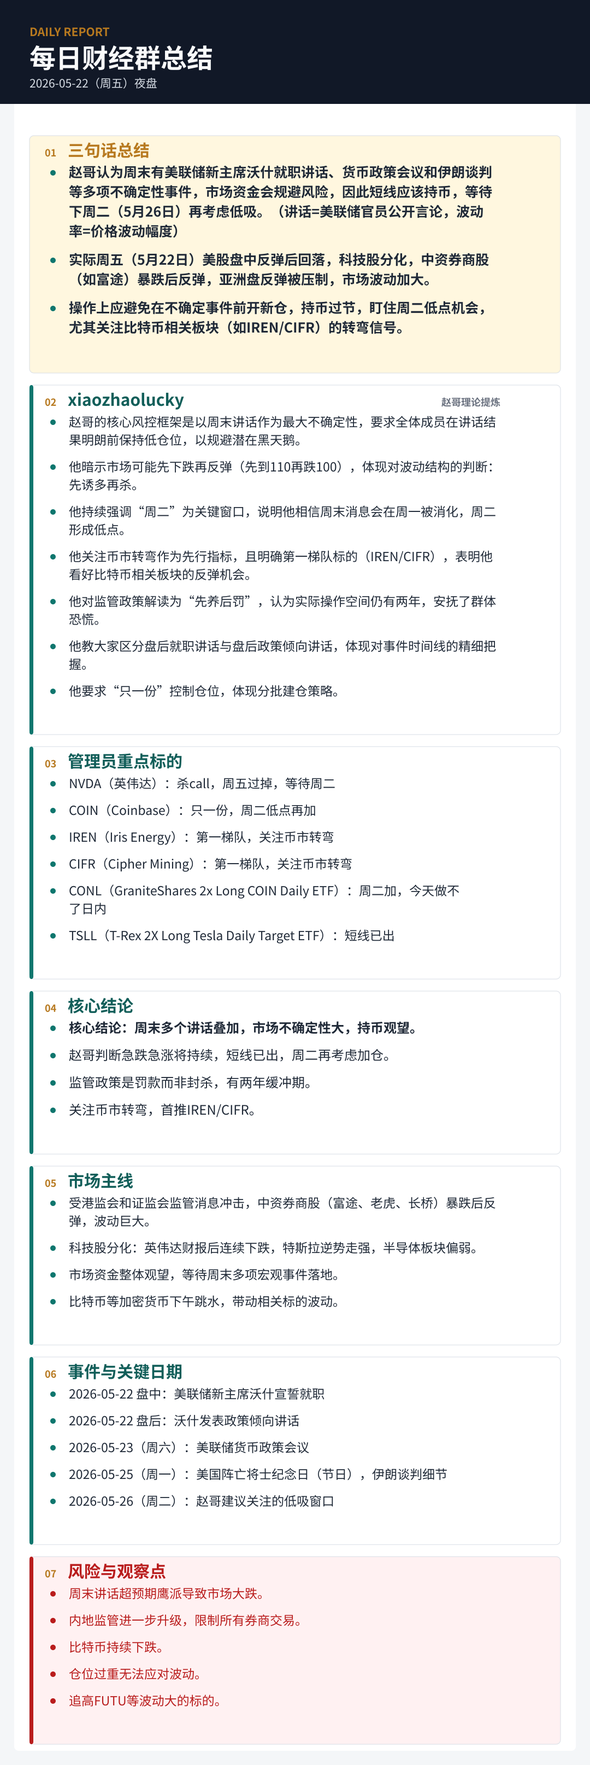
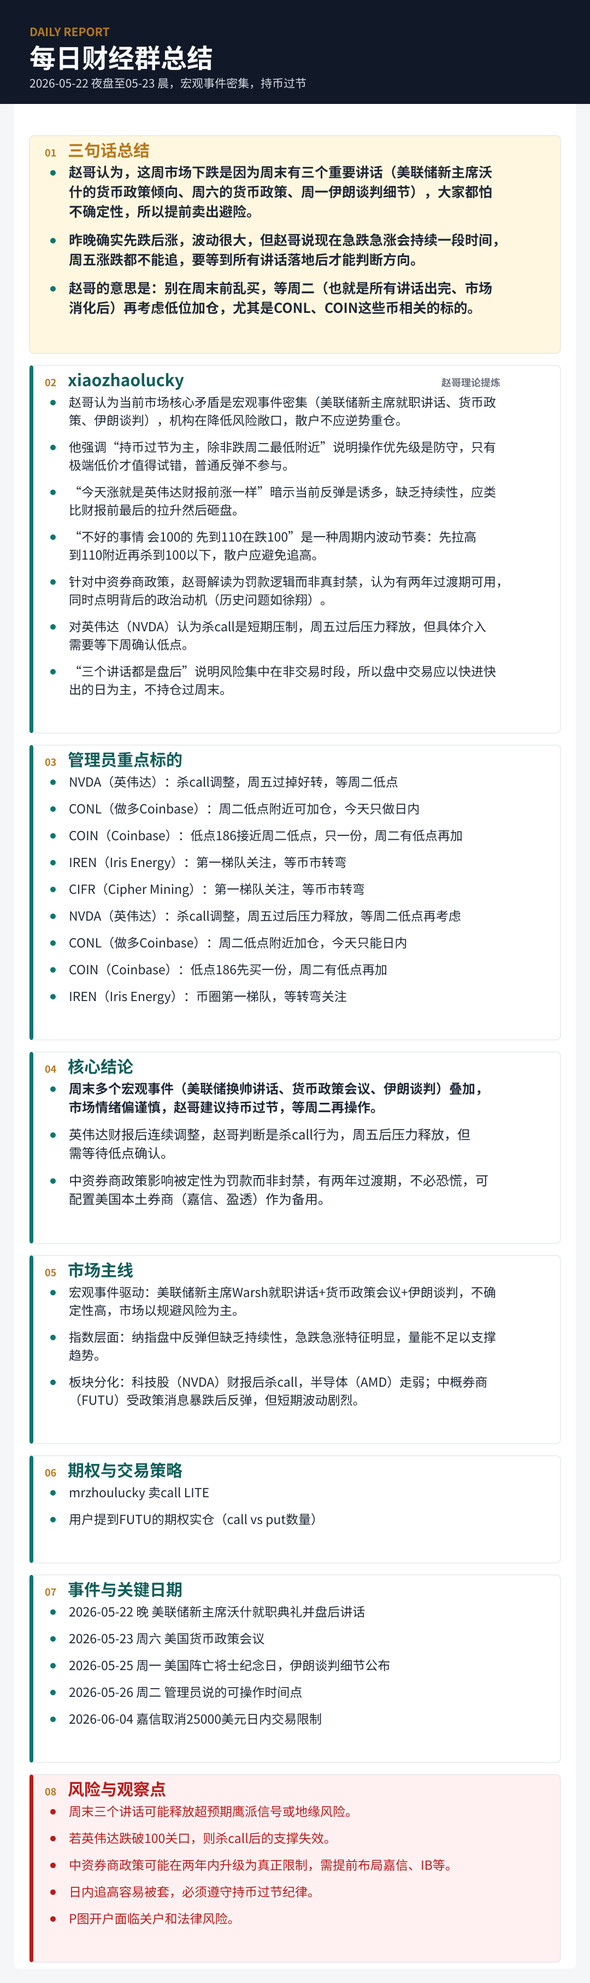
Auto daily publish: 2026-05-23 12:24:41 CST

diff --git a/docs/index.md b/docs/index.md
@@ -1,110 +1,113 @@
 # 财经聊天总结 - 每日定时总结（过去24小时）
 
-> 北京时间：2026-05-23 11:30:30 CST
+> 北京时间：2026-05-23 12:24:41 CST
 
-> 美西时间：2026-05-22 20:30:30 PST
+> 美西时间：2026-05-22 21:24:41 PST
 
-> 美东时间：2026-05-22 23:30:30 EST
+> 美东时间：2026-05-23 00:24:41 EST
 
 > 模型：deepseek-v4-flash
 
 ## 三句话总结
-- 赵哥认为周末有美联储新主席沃什就职讲话、货币政策会议和伊朗谈判等多项不确定性事件，市场资金会规避风险，因此短线应该持币，等待下周二（5月26日）再考虑低吸。（讲话=美联储官员公开言论，波动率=价格波动幅度）
-- 实际周五（5月22日）美股盘中反弹后回落，科技股分化，中资券商股（如富途）暴跌后反弹，亚洲盘反弹被压制，市场波动加大。
-- 操作上应避免在不确定事件前开新仓，持币过节，盯住周二低点机会，尤其关注比特币相关板块（如IREN/CIFR）的转弯信号。
+- 赵哥认为，这周市场下跌是因为周末有三个重要讲话（美联储新主席沃什的货币政策倾向、周六的货币政策、周一伊朗谈判细节），大家都怕不确定性，所以提前卖出避险。
+- 昨晚确实先跌后涨，波动很大，但赵哥说现在急跌急涨会持续一段时间，周五涨跌都不能追，要等到所有讲话落地后才能判断方向。
+- 赵哥的意思是：别在周末前乱买，等周二（也就是所有讲话出完、市场消化后）再考虑低位加仓，尤其是CONL、COIN这些币相关的标的。
 
 ## 核心结论
-- 核心结论：周末多个讲话叠加，市场不确定性大，持币观望。
-- 赵哥判断急跌急涨将持续，短线已出，周二再考虑加仓。
-- 监管政策是罚款而非封杀，有两年缓冲期。
-- 关注币市转弯，首推IREN/CIFR。
+- 周末多个宏观事件（美联储换帅讲话、货币政策会议、伊朗谈判）叠加，市场情绪偏谨慎，赵哥建议持币过节，等周二再操作。
+- 英伟达财报后连续调整，赵哥判断是杀call行为，周五后压力释放，但需等待低点确认。
+- 中资券商政策影响被定性为罚款而非封禁，有两年过渡期，不必恐慌，可配置美国本土券商（嘉信、盈透）作为备用。
 
 ## 市场状态判断
-- 当前市场处于‘多重事件叠加的周末前规避模式’，资金偏向减仓避险，波动率上升，日内的反弹容易被讲话不确定性打压。
-- 短期风险规避，中长线等待情绪消化，资金环境偏紧。
+- 市场处于事件密集窗口期（美联储换帅、货币政策、地缘谈判），波动率显著上升，多空博弈激烈。
+- 资金行为以避险为主，机构降低风险敞口，散户跟风难度大，短线交易窗口窄。
+- 流动性集中在宏观主题（政策、利率、地缘），而非个股基本面驱动。
 
 ### 核心理论
-- 在重大不确定性事件公布前不赌方向，宁可错过也不做错。
-- 利用周末讲话导致的情绪低点布局。
-- 急跌急涨是人为调控的常态，要适应节奏。
-- 分批建仓，只一份试错。
+- 赵哥框架的核心是“宏观事件主导节奏，散户应跟随时间周期而非价格运动”。
+- 他反复强调“三个讲话盘后”、“周末规避”，说明决策依据是时间点（讲话前后）而非单纯点位。
+- 操作上分两层：一是持币过节（防守），二是只有跌至周二最低附近才试错（机会）。
+- 对于标的（如CONL、COIN），他认为与币市场联动，需等币市转弯后第一梯队如IREN、CIFR先关注。
 
 ### 证据链
-- NVDA财报后连跌三天，赵哥指出‘杀call’现象。
-- 周五盘中反弹后回落，符合‘今天亚洲反弹肯定要杀下’。
-- Coin低点186接近周二低点，赵哥同意只一份。
-- 周一周二下跌源于周末慢跑式减持讲话。
-- 富途盘中从75涨到94，体现利空出尽反弹。
+- 英伟达财报后连跌三天，赵哥解释为杀call，周五过掉就好了，验证了期权到期日的机械性抛压。
+- 中资券商政策：赵哥指出长桥是阿里、富途是腾讯、老虎是小米，国内资本控股，罚款是目的，历史上徐翔案例是模板。
+- 市场波动：周一周二跌是因周末慢跑式减持讲话，周五虽反弹但“涨就是英伟达财报前涨一样”暗示诱多。
+- 币市场：COIN低点186接近周二低点，赵哥说只一份如果周二有低点再加，表明当前并非重仓时机。
+- 用户对富途的操作：有人75买88出，有人等100未果，说明政策事件带来的波动有获利空间但难度大。
 
 ### 交易框架拆解
-- **入场条件**：周末讲话后，周二如果跌至周低点附近可考虑试仓。；币市出现转弯信号。
-- **持仓逻辑**：中线持有，允许做T降低成本。
-- **退出条件**：讲话出现超预期鹰派或地缘风险，则止盈/止损。
-- **仓位纪律**：轻仓低吸，分批加仓，总仓位控制在3成以内。
-- **风控规则**：禁止在周末前重仓，禁止追高，禁止不设止损。
-- **观察信号**：周六货币政策会议结果。；周一伊朗谈判细节。；比特币是否企稳反弹。；周一美港股是否开盘（节日）。；嘉信、IB等开户进度。
-- **失效条件**：如果周末讲话结果全部利好，出现踏空。；走势与赵哥预期相反持续下跌，则框架失效。
+- **入场条件**：周二（所有讲话落地后）才是允许关注的时间点。；价格须跌至周二最低附近才考虑试错，否则观望。；币市场需出现转弯信号，第一梯队（IREN、CIFR）先关注。；日内操作仅限于盘中急跌后的反弹，且不能持仓过周末。
+- **持仓逻辑**：若已持有，短线仓位应在周五前出清。；中线仓位需等待周二低点确认后再考虑持有。；持币过节是核心，不因盘中反弹改变策略。
+- **退出条件**：若价格回升至周二最低上方，应停止买入并减仓。；出现超预期利空（如沃什鹰派讲话超预期、伊朗谈判破裂）需无条件止损。；短线止盈参考110附近（如英伟达）或10%涨幅（如富途）。
+- **仓位纪律**：当前仓位不超过3成，且以短线为主。；周二的低吸仓位控制在1-2成，若继续跌破再考虑加仓。；不追高，不重仓单一个股。
+- **风控规则**：禁止在讲话落地前开新仓。；禁止持有过周末（除非已严格止损）。；中资券商账户资金分散到美国本土券商。；不要用P图等欺诈手段开户，避免被关户。
+- **观察信号**：周六货币政策会议的具体表述（鹰鸽程度）。；周一伊朗谈判结果对油价和避险情绪的影响。；沃什盘后讲话中政策倾向（加息节奏、缩表态度）。；英伟达股价能否在105-108区间企稳，还是跌破100。；币市场（BTC）是否出现放量止跌信号。
+- **失效条件**：如果沃什讲话意外鸽派，市场可能提前反弹，则周二低点不复存在。；如果伊朗谈判达成超预期协议，油价暴跌引发风险资产全面反弹。；如果英伟达快速收复财报跌幅（>120），则杀call判断失效。；如果政策直接关闭中资券商出金通道（而非两年过渡），则恐慌加剧。
 
 ## xiaozhaolucky
 ### 深度解读
-- 赵哥的核心风控框架是以周末讲话作为最大不确定性，要求全体成员在讲话结果明朗前保持低仓位，以规避潜在黑天鹅。
-- 他暗示市场可能先下跌再反弹（先到110再跌100），体现对波动结构的判断：先诱多再杀。
-- 他持续强调“周二”为关键窗口，说明他相信周末消息会在周一被消化，周二形成低点。
-- 他关注币市转弯作为先行指标，且明确第一梯队标的（IREN/CIFR），表明他看好比特币相关板块的反弹机会。
-- 他对监管政策解读为“先养后罚”，认为实际操作空间仍有两年，安抚了群体恐慌。
-- 他教大家区分盘后就职讲话与盘后政策倾向讲话，体现对事件时间线的精细把握。
-- 他要求“只一份”控制仓位，体现分批建仓策略。
+- 赵哥认为当前市场核心矛盾是宏观事件密集（美联储新主席就职讲话、货币政策、伊朗谈判），机构在降低风险敞口，散户不应逆势重仓。
+- 他强调“持币过节为主，除非跌周二最低附近”说明操作优先级是防守，只有极端低价才值得试错，普通反弹不参与。
+- “今天涨就是英伟达财报前涨一样”暗示当前反弹是诱多，缺乏持续性，应类比财报前最后的拉升然后砸盘。
+- “不好的事情 会100的 先到110在跌100”是一种周期内波动节奏：先拉高到110附近再杀到100以下，散户应避免追高。
+- 针对中资券商政策，赵哥解读为罚款逻辑而非真封禁，认为有两年过渡期可用，同时点明背后的政治动机（历史问题如徐翔）。
+- 对英伟达（NVDA）认为杀call是短期压制，周五过后压力释放，但具体介入需要等下周确认低点。
+- “三个讲话都是盘后”说明风险集中在非交易时段，所以盘中交易应以快进快出的日为主，不持仓过周末。
 
 ### 管理员重点标的
-- **NVDA（英伟达）**: 杀call，周五过掉，等待周二
-- **COIN（Coinbase）**: 只一份，周二低点再加
-- **IREN（Iris Energy）**: 第一梯队，关注币市转弯
-- **CIFR（Cipher Mining）**: 第一梯队，关注币市转弯
-- **CONL（GraniteShares 2x Long COIN Daily ETF）**: 周二加，今天做不了日内
-- **TSLL（T-Rex 2X Long Tesla Daily Target ETF）**: 短线已出
+| 标的 | 逻辑 | 触发条件 | 动作 | 风险 |
+| --- | --- | --- | --- | --- |
+| NVDA（英伟达） | 杀call调整，周五过掉好转，等周二低点 | 待确认 | 观察 | 未明确 |
+| CONL（做多Coinbase） | 周二低点附近可加仓，今天只做日内 | 待确认 | 观察 | 未明确 |
+| COIN（Coinbase） | 低点186接近周二低点，只一份，周二有低点再加 | 待确认 | 观察 | 未明确 |
+| IREN（Iris Energy） | 第一梯队关注，等币市转弯 | 待确认 | 观察 | 未明确 |
+| CIFR（Cipher Mining） | 第一梯队关注，等币市转弯 | 待确认 | 观察 | 未明确 |
+| NVDA（英伟达） | 财报后杀call是常见期权到期现象，周五即结束 | 周五收盘后或周二低点 | 暂时观望，等待周二低点 | 若突破前高则杀call无效 |
+| CONL（做多Coinbase） | 与币市场联动，等币市转弯 | 周二低点或币市转弯信号 | 下周二加仓 | 讲话不确定性导致再次下跌 |
+| COIN（Coinbase） | 接近周二低点但未完全到位 | 周二如果继续下跌 | 只一份试错 | 跌破前低则先止损 |
+| IREN（Iris Energy） | 币市企稳后优先关注 | 币市转弯 | 观察准备 | 币市持续下跌 |
+| CIFR（Cipher Mining） | 同上 | 同上 | 观察准备 | 同上 |
 
 ## 其他用户
 ### 用户观点提炼
-- 普通用户普遍恐慌大陆监管，大量讨论如何开嘉信、IB、盈立等替代券商。
-- 部分用户利用FUTU利空事件做短线，获利15-20%后止盈。
-- 用户对CONL、TSLL等标的跟随赵哥操作，但许多人卖飞或套牢。
-- 用户对晚间美联储新主席就职讲话看法分歧，有人认为偏鹰派。
-- 情绪上，有用户担心未来两年不能交易，但也有用户认为只是罚款，问题不大。
+- 多数用户对中资券商政策感到恐慌，讨论开户备选（嘉信、盈立、IB），但普遍认为政策影响有限，长期仍需本土券商。
+- mrzhoulucky 表示富途、长桥、老虎分别是腾讯、阿里、小米控股，认为这是缺钱罚款的信号，并分享自己卖call、做空LITE的操作。
+- 部分用户参与短期事件（富途暴跌后反弹），有人赚15-20%止盈，也有用户犹豫不敢买。
+- 对英伟达和特斯拉有分歧：有人认为财报后持续调整，有人高抛低吸做T。
+- 关于美联储新主席Warsh，用户讨论偏鹰派，认为可能加息，但无一致结论。
 
 ### 普通用户提到的标的
-- **FUTU（富途控股）**: 政策利空暴跌后反弹，用户炒短线
-- **TSLA（特斯拉）**: 走强，用户有持仓
-- **DELL（戴尔）**: 涨15%，用户持有
-- **AMD（超威半导体）**: 盘中波动大
-- **FUTU（富途控股）**: 用户75-94炒短线，获利20%止盈
-- **TSLA（特斯拉）**: 走强，用户有持仓，部分卖飞
-- **DELL（戴尔）**: 涨15%，用户持有不动
-- **CONL（GraniteShares 2x Long COIN Daily ETF）**: 用户7.6买入，套牢或卖出
-- **TSLL（T-Rex 2X Long Tesla Daily Target ETF）**: 用户15.19卖出，后卖飞
-- **LITE（Lumentum）**: 用户讨论做空LITE
-- **HOOD（Robinhood）**: 用户挂单73.18
-- **AMD（超威半导体）**: 用户感叹波动大
+- **FUTU（富途控股）**: 政策事件暴跌后反弹，用户有短炒
+- **TSLA（特斯拉）**: 高开低走，用户出清或做T
+- **DELL（戴尔）**: 用户持仓不动，涨势不错
+- **LITE（Lumentum）**: 用户做空（mrzhoulucky卖call）
+- **FUTU（富途控股）**: 用户讨论：75-88-94区间短炒，有人赚15%止盈
+- **TSLA（特斯拉）**: 高开低走，用户清仓或持有底仓，卖飞后后悔
+- **DELL（戴尔）**: 用户持有，涨势好，有人赚15%
+- **SOXS（做空半导体三倍ETF）**: 用户提及新低
+- **LITE（Lumentum）**: 用户mrzhoulucky卖call做空
 
 ## 市场主线
-- 受港监会和证监会监管消息冲击，中资券商股（富途、老虎、长桥）暴跌后反弹，波动巨大。
-- 科技股分化：英伟达财报后连续下跌，特斯拉逆势走强，半导体板块偏弱。
-- 市场资金整体观望，等待周末多项宏观事件落地。
-- 比特币等加密货币下午跳水，带动相关标的波动。
+- 宏观事件驱动：美联储新主席Warsh就职讲话+货币政策会议+伊朗谈判，不确定性高，市场以规避风险为主。
+- 指数层面：纳指盘中反弹但缺乏持续性，急跌急涨特征明显，量能不足以支撑趋势。
+- 板块分化：科技股（NVDA）财报后杀call，半导体（AMD）走弱；中概券商（FUTU）受政策消息暴跌后反弹，但短期波动剧烈。
 
 ## 期权与交易策略
-- 暂无明确记录。
+- mrzhoulucky 卖call LITE
+- 用户提到FUTU的期权实仓（call vs put数量）
 
 ## 事件与关键日期
-- 2026-05-22 盘中：美联储新主席沃什宣誓就职
-- 2026-05-22 盘后：沃什发表政策倾向讲话
-- 2026-05-23（周六）：美联储货币政策会议
-- 2026-05-25（周一）：美国阵亡将士纪念日（节日），伊朗谈判细节
-- 2026-05-26（周二）：赵哥建议关注的低吸窗口
+- 2026-05-22 晚 美联储新主席沃什就职典礼并盘后讲话
+- 2026-05-23 周六 美国货币政策会议
+- 2026-05-25 周一 美国阵亡将士纪念日，伊朗谈判细节公布
+- 2026-05-26 周二 管理员说的可操作时间点
+- 2026-06-04 嘉信取消25000美元日内交易限制
 
 ## 风险与观察点
-- 周末讲话超预期鹰派导致市场大跌。
-- 内地监管进一步升级，限制所有券商交易。
-- 比特币持续下跌。
-- 仓位过重无法应对波动。
-- 追高FUTU等波动大的标的。
+- 周末三个讲话可能释放超预期鹰派信号或地缘风险。
+- 若英伟达跌破100关口，则杀call后的支撑失效。
+- 中资券商政策可能在两年内升级为真正限制，需提前布局嘉信、IB等。
+- 日内追高容易被套，必须遵守持币过节纪律。
+- P图开户面临关户和法律风险。
 

diff --git a/docs/summaries/2026-05/2026-05-23-每日总结.md b/docs/summaries/2026-05/2026-05-23-每日总结.md
@@ -1,107 +1,110 @@
-# 2026-05-23 11:30:30 CST 总结 - 每日定时总结（过去24小时）
+# 2026-05-23 12:24:41 CST 总结 - 每日定时总结（过去24小时）
 
-> 美西时间：2026-05-22 20:30:30 PST
+> 美西时间：2026-05-22 21:24:41 PST
 
-> 美东时间：2026-05-22 23:30:30 EST
+> 美东时间：2026-05-23 00:24:41 EST
 
 > 模型：deepseek-v4-flash
 
 ## 三句话总结
-- 赵哥认为周末有美联储新主席沃什就职讲话、货币政策会议和伊朗谈判等多项不确定性事件，市场资金会规避风险，因此短线应该持币，等待下周二（5月26日）再考虑低吸。（讲话=美联储官员公开言论，波动率=价格波动幅度）
-- 实际周五（5月22日）美股盘中反弹后回落，科技股分化，中资券商股（如富途）暴跌后反弹，亚洲盘反弹被压制，市场波动加大。
-- 操作上应避免在不确定事件前开新仓，持币过节，盯住周二低点机会，尤其关注比特币相关板块（如IREN/CIFR）的转弯信号。
+- 赵哥认为，这周市场下跌是因为周末有三个重要讲话（美联储新主席沃什的货币政策倾向、周六的货币政策、周一伊朗谈判细节），大家都怕不确定性，所以提前卖出避险。
+- 昨晚确实先跌后涨，波动很大，但赵哥说现在急跌急涨会持续一段时间，周五涨跌都不能追，要等到所有讲话落地后才能判断方向。
+- 赵哥的意思是：别在周末前乱买，等周二（也就是所有讲话出完、市场消化后）再考虑低位加仓，尤其是CONL、COIN这些币相关的标的。
 
 ## 核心结论
-- 核心结论：周末多个讲话叠加，市场不确定性大，持币观望。
-- 赵哥判断急跌急涨将持续，短线已出，周二再考虑加仓。
-- 监管政策是罚款而非封杀，有两年缓冲期。
-- 关注币市转弯，首推IREN/CIFR。
+- 周末多个宏观事件（美联储换帅讲话、货币政策会议、伊朗谈判）叠加，市场情绪偏谨慎，赵哥建议持币过节，等周二再操作。
+- 英伟达财报后连续调整，赵哥判断是杀call行为，周五后压力释放，但需等待低点确认。
+- 中资券商政策影响被定性为罚款而非封禁，有两年过渡期，不必恐慌，可配置美国本土券商（嘉信、盈透）作为备用。
 
 ## 市场状态判断
-- 当前市场处于‘多重事件叠加的周末前规避模式’，资金偏向减仓避险，波动率上升，日内的反弹容易被讲话不确定性打压。
-- 短期风险规避，中长线等待情绪消化，资金环境偏紧。
+- 市场处于事件密集窗口期（美联储换帅、货币政策、地缘谈判），波动率显著上升，多空博弈激烈。
+- 资金行为以避险为主，机构降低风险敞口，散户跟风难度大，短线交易窗口窄。
+- 流动性集中在宏观主题（政策、利率、地缘），而非个股基本面驱动。
 
 ### 核心理论
-- 在重大不确定性事件公布前不赌方向，宁可错过也不做错。
-- 利用周末讲话导致的情绪低点布局。
-- 急跌急涨是人为调控的常态，要适应节奏。
-- 分批建仓，只一份试错。
+- 赵哥框架的核心是“宏观事件主导节奏，散户应跟随时间周期而非价格运动”。
+- 他反复强调“三个讲话盘后”、“周末规避”，说明决策依据是时间点（讲话前后）而非单纯点位。
+- 操作上分两层：一是持币过节（防守），二是只有跌至周二最低附近才试错（机会）。
+- 对于标的（如CONL、COIN），他认为与币市场联动，需等币市转弯后第一梯队如IREN、CIFR先关注。
 
 ### 证据链
-- NVDA财报后连跌三天，赵哥指出‘杀call’现象。
-- 周五盘中反弹后回落，符合‘今天亚洲反弹肯定要杀下’。
-- Coin低点186接近周二低点，赵哥同意只一份。
-- 周一周二下跌源于周末慢跑式减持讲话。
-- 富途盘中从75涨到94，体现利空出尽反弹。
+- 英伟达财报后连跌三天，赵哥解释为杀call，周五过掉就好了，验证了期权到期日的机械性抛压。
+- 中资券商政策：赵哥指出长桥是阿里、富途是腾讯、老虎是小米，国内资本控股，罚款是目的，历史上徐翔案例是模板。
+- 市场波动：周一周二跌是因周末慢跑式减持讲话，周五虽反弹但“涨就是英伟达财报前涨一样”暗示诱多。
+- 币市场：COIN低点186接近周二低点，赵哥说只一份如果周二有低点再加，表明当前并非重仓时机。
+- 用户对富途的操作：有人75买88出，有人等100未果，说明政策事件带来的波动有获利空间但难度大。
 
 ### 交易框架拆解
-- **入场条件**：周末讲话后，周二如果跌至周低点附近可考虑试仓。；币市出现转弯信号。
-- **持仓逻辑**：中线持有，允许做T降低成本。
-- **退出条件**：讲话出现超预期鹰派或地缘风险，则止盈/止损。
-- **仓位纪律**：轻仓低吸，分批加仓，总仓位控制在3成以内。
-- **风控规则**：禁止在周末前重仓，禁止追高，禁止不设止损。
-- **观察信号**：周六货币政策会议结果。；周一伊朗谈判细节。；比特币是否企稳反弹。；周一美港股是否开盘（节日）。；嘉信、IB等开户进度。
-- **失效条件**：如果周末讲话结果全部利好，出现踏空。；走势与赵哥预期相反持续下跌，则框架失效。
+- **入场条件**：周二（所有讲话落地后）才是允许关注的时间点。；价格须跌至周二最低附近才考虑试错，否则观望。；币市场需出现转弯信号，第一梯队（IREN、CIFR）先关注。；日内操作仅限于盘中急跌后的反弹，且不能持仓过周末。
+- **持仓逻辑**：若已持有，短线仓位应在周五前出清。；中线仓位需等待周二低点确认后再考虑持有。；持币过节是核心，不因盘中反弹改变策略。
+- **退出条件**：若价格回升至周二最低上方，应停止买入并减仓。；出现超预期利空（如沃什鹰派讲话超预期、伊朗谈判破裂）需无条件止损。；短线止盈参考110附近（如英伟达）或10%涨幅（如富途）。
+- **仓位纪律**：当前仓位不超过3成，且以短线为主。；周二的低吸仓位控制在1-2成，若继续跌破再考虑加仓。；不追高，不重仓单一个股。
+- **风控规则**：禁止在讲话落地前开新仓。；禁止持有过周末（除非已严格止损）。；中资券商账户资金分散到美国本土券商。；不要用P图等欺诈手段开户，避免被关户。
+- **观察信号**：周六货币政策会议的具体表述（鹰鸽程度）。；周一伊朗谈判结果对油价和避险情绪的影响。；沃什盘后讲话中政策倾向（加息节奏、缩表态度）。；英伟达股价能否在105-108区间企稳，还是跌破100。；币市场（BTC）是否出现放量止跌信号。
+- **失效条件**：如果沃什讲话意外鸽派，市场可能提前反弹，则周二低点不复存在。；如果伊朗谈判达成超预期协议，油价暴跌引发风险资产全面反弹。；如果英伟达快速收复财报跌幅（>120），则杀call判断失效。；如果政策直接关闭中资券商出金通道（而非两年过渡），则恐慌加剧。
 
 ## xiaozhaolucky
 ### 深度解读
-- 赵哥的核心风控框架是以周末讲话作为最大不确定性，要求全体成员在讲话结果明朗前保持低仓位，以规避潜在黑天鹅。
-- 他暗示市场可能先下跌再反弹（先到110再跌100），体现对波动结构的判断：先诱多再杀。
-- 他持续强调“周二”为关键窗口，说明他相信周末消息会在周一被消化，周二形成低点。
-- 他关注币市转弯作为先行指标，且明确第一梯队标的（IREN/CIFR），表明他看好比特币相关板块的反弹机会。
-- 他对监管政策解读为“先养后罚”，认为实际操作空间仍有两年，安抚了群体恐慌。
-- 他教大家区分盘后就职讲话与盘后政策倾向讲话，体现对事件时间线的精细把握。
-- 他要求“只一份”控制仓位，体现分批建仓策略。
+- 赵哥认为当前市场核心矛盾是宏观事件密集（美联储新主席就职讲话、货币政策、伊朗谈判），机构在降低风险敞口，散户不应逆势重仓。
+- 他强调“持币过节为主，除非跌周二最低附近”说明操作优先级是防守，只有极端低价才值得试错，普通反弹不参与。
+- “今天涨就是英伟达财报前涨一样”暗示当前反弹是诱多，缺乏持续性，应类比财报前最后的拉升然后砸盘。
+- “不好的事情 会100的 先到110在跌100”是一种周期内波动节奏：先拉高到110附近再杀到100以下，散户应避免追高。
+- 针对中资券商政策，赵哥解读为罚款逻辑而非真封禁，认为有两年过渡期可用，同时点明背后的政治动机（历史问题如徐翔）。
+- 对英伟达（NVDA）认为杀call是短期压制，周五过后压力释放，但具体介入需要等下周确认低点。
+- “三个讲话都是盘后”说明风险集中在非交易时段，所以盘中交易应以快进快出的日为主，不持仓过周末。
 
 ### 管理员重点标的
-- **NVDA（英伟达）**: 杀call，周五过掉，等待周二
-- **COIN（Coinbase）**: 只一份，周二低点再加
-- **IREN（Iris Energy）**: 第一梯队，关注币市转弯
-- **CIFR（Cipher Mining）**: 第一梯队，关注币市转弯
-- **CONL（GraniteShares 2x Long COIN Daily ETF）**: 周二加，今天做不了日内
-- **TSLL（T-Rex 2X Long Tesla Daily Target ETF）**: 短线已出
+| 标的 | 逻辑 | 触发条件 | 动作 | 风险 |
+| --- | --- | --- | --- | --- |
+| NVDA（英伟达） | 杀call调整，周五过掉好转，等周二低点 | 待确认 | 观察 | 未明确 |
+| CONL（做多Coinbase） | 周二低点附近可加仓，今天只做日内 | 待确认 | 观察 | 未明确 |
+| COIN（Coinbase） | 低点186接近周二低点，只一份，周二有低点再加 | 待确认 | 观察 | 未明确 |
+| IREN（Iris Energy） | 第一梯队关注，等币市转弯 | 待确认 | 观察 | 未明确 |
+| CIFR（Cipher Mining） | 第一梯队关注，等币市转弯 | 待确认 | 观察 | 未明确 |
+| NVDA（英伟达） | 财报后杀call是常见期权到期现象，周五即结束 | 周五收盘后或周二低点 | 暂时观望，等待周二低点 | 若突破前高则杀call无效 |
+| CONL（做多Coinbase） | 与币市场联动，等币市转弯 | 周二低点或币市转弯信号 | 下周二加仓 | 讲话不确定性导致再次下跌 |
+| COIN（Coinbase） | 接近周二低点但未完全到位 | 周二如果继续下跌 | 只一份试错 | 跌破前低则先止损 |
+| IREN（Iris Energy） | 币市企稳后优先关注 | 币市转弯 | 观察准备 | 币市持续下跌 |
+| CIFR（Cipher Mining） | 同上 | 同上 | 观察准备 | 同上 |
 
 ## 其他用户
 ### 用户观点提炼
-- 普通用户普遍恐慌大陆监管，大量讨论如何开嘉信、IB、盈立等替代券商。
-- 部分用户利用FUTU利空事件做短线，获利15-20%后止盈。
-- 用户对CONL、TSLL等标的跟随赵哥操作，但许多人卖飞或套牢。
-- 用户对晚间美联储新主席就职讲话看法分歧，有人认为偏鹰派。
-- 情绪上，有用户担心未来两年不能交易，但也有用户认为只是罚款，问题不大。
+- 多数用户对中资券商政策感到恐慌，讨论开户备选（嘉信、盈立、IB），但普遍认为政策影响有限，长期仍需本土券商。
+- mrzhoulucky 表示富途、长桥、老虎分别是腾讯、阿里、小米控股，认为这是缺钱罚款的信号，并分享自己卖call、做空LITE的操作。
+- 部分用户参与短期事件（富途暴跌后反弹），有人赚15-20%止盈，也有用户犹豫不敢买。
+- 对英伟达和特斯拉有分歧：有人认为财报后持续调整，有人高抛低吸做T。
+- 关于美联储新主席Warsh，用户讨论偏鹰派，认为可能加息，但无一致结论。
 
 ### 普通用户提到的标的
-- **FUTU（富途控股）**: 政策利空暴跌后反弹，用户炒短线
-- **TSLA（特斯拉）**: 走强，用户有持仓
-- **DELL（戴尔）**: 涨15%，用户持有
-- **AMD（超威半导体）**: 盘中波动大
-- **FUTU（富途控股）**: 用户75-94炒短线，获利20%止盈
-- **TSLA（特斯拉）**: 走强，用户有持仓，部分卖飞
-- **DELL（戴尔）**: 涨15%，用户持有不动
-- **CONL（GraniteShares 2x Long COIN Daily ETF）**: 用户7.6买入，套牢或卖出
-- **TSLL（T-Rex 2X Long Tesla Daily Target ETF）**: 用户15.19卖出，后卖飞
-- **LITE（Lumentum）**: 用户讨论做空LITE
-- **HOOD（Robinhood）**: 用户挂单73.18
-- **AMD（超威半导体）**: 用户感叹波动大
+- **FUTU（富途控股）**: 政策事件暴跌后反弹，用户有短炒
+- **TSLA（特斯拉）**: 高开低走，用户出清或做T
+- **DELL（戴尔）**: 用户持仓不动，涨势不错
+- **LITE（Lumentum）**: 用户做空（mrzhoulucky卖call）
+- **FUTU（富途控股）**: 用户讨论：75-88-94区间短炒，有人赚15%止盈
+- **TSLA（特斯拉）**: 高开低走，用户清仓或持有底仓，卖飞后后悔
+- **DELL（戴尔）**: 用户持有，涨势好，有人赚15%
+- **SOXS（做空半导体三倍ETF）**: 用户提及新低
+- **LITE（Lumentum）**: 用户mrzhoulucky卖call做空
 
 ## 市场主线
-- 受港监会和证监会监管消息冲击，中资券商股（富途、老虎、长桥）暴跌后反弹，波动巨大。
-- 科技股分化：英伟达财报后连续下跌，特斯拉逆势走强，半导体板块偏弱。
-- 市场资金整体观望，等待周末多项宏观事件落地。
-- 比特币等加密货币下午跳水，带动相关标的波动。
+- 宏观事件驱动：美联储新主席Warsh就职讲话+货币政策会议+伊朗谈判，不确定性高，市场以规避风险为主。
+- 指数层面：纳指盘中反弹但缺乏持续性，急跌急涨特征明显，量能不足以支撑趋势。
+- 板块分化：科技股（NVDA）财报后杀call，半导体（AMD）走弱；中概券商（FUTU）受政策消息暴跌后反弹，但短期波动剧烈。
 
 ## 期权与交易策略
-- 暂无明确记录。
+- mrzhoulucky 卖call LITE
+- 用户提到FUTU的期权实仓（call vs put数量）
 
 ## 事件与关键日期
-- 2026-05-22 盘中：美联储新主席沃什宣誓就职
-- 2026-05-22 盘后：沃什发表政策倾向讲话
-- 2026-05-23（周六）：美联储货币政策会议
-- 2026-05-25（周一）：美国阵亡将士纪念日（节日），伊朗谈判细节
-- 2026-05-26（周二）：赵哥建议关注的低吸窗口
+- 2026-05-22 晚 美联储新主席沃什就职典礼并盘后讲话
+- 2026-05-23 周六 美国货币政策会议
+- 2026-05-25 周一 美国阵亡将士纪念日，伊朗谈判细节公布
+- 2026-05-26 周二 管理员说的可操作时间点
+- 2026-06-04 嘉信取消25000美元日内交易限制
 
 ## 风险与观察点
-- 周末讲话超预期鹰派导致市场大跌。
-- 内地监管进一步升级，限制所有券商交易。
-- 比特币持续下跌。
-- 仓位过重无法应对波动。
-- 追高FUTU等波动大的标的。
+- 周末三个讲话可能释放超预期鹰派信号或地缘风险。
+- 若英伟达跌破100关口，则杀call后的支撑失效。
+- 中资券商政策可能在两年内升级为真正限制，需提前布局嘉信、IB等。
+- 日内追高容易被套，必须遵守持币过节纪律。
+- P图开户面临关户和法律风险。
